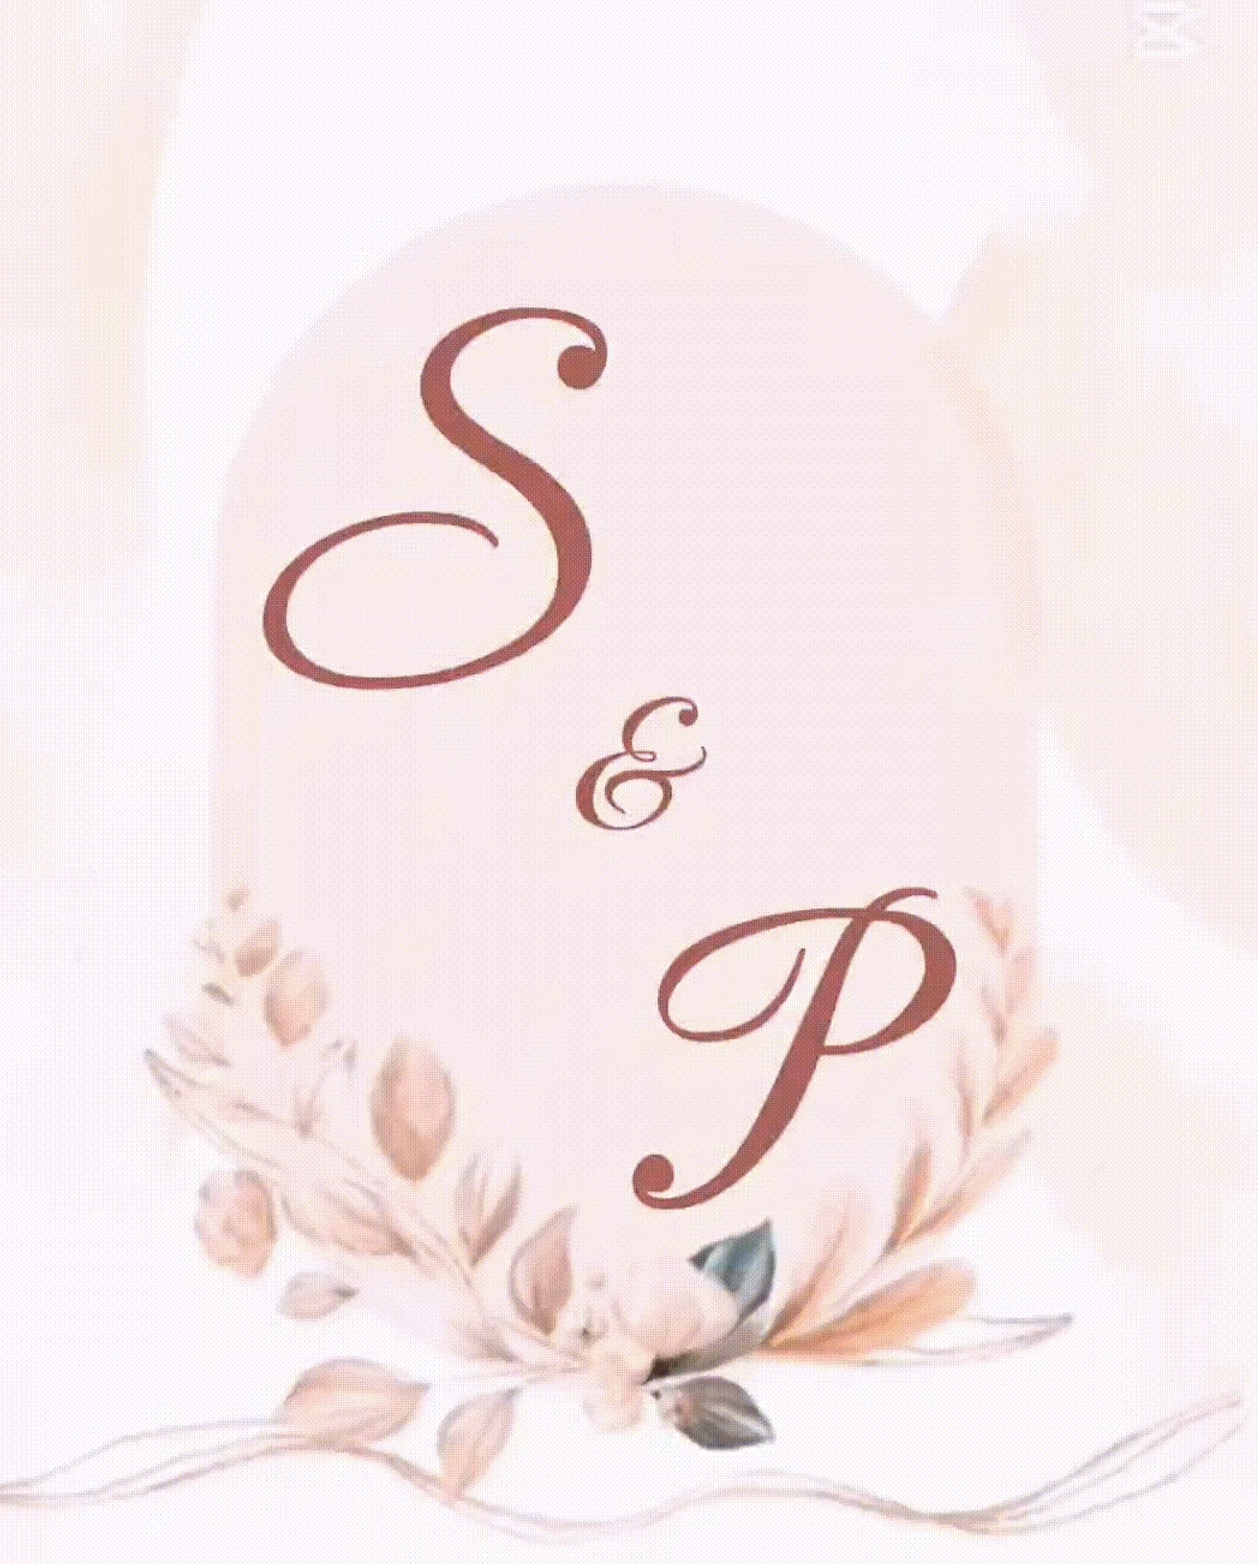
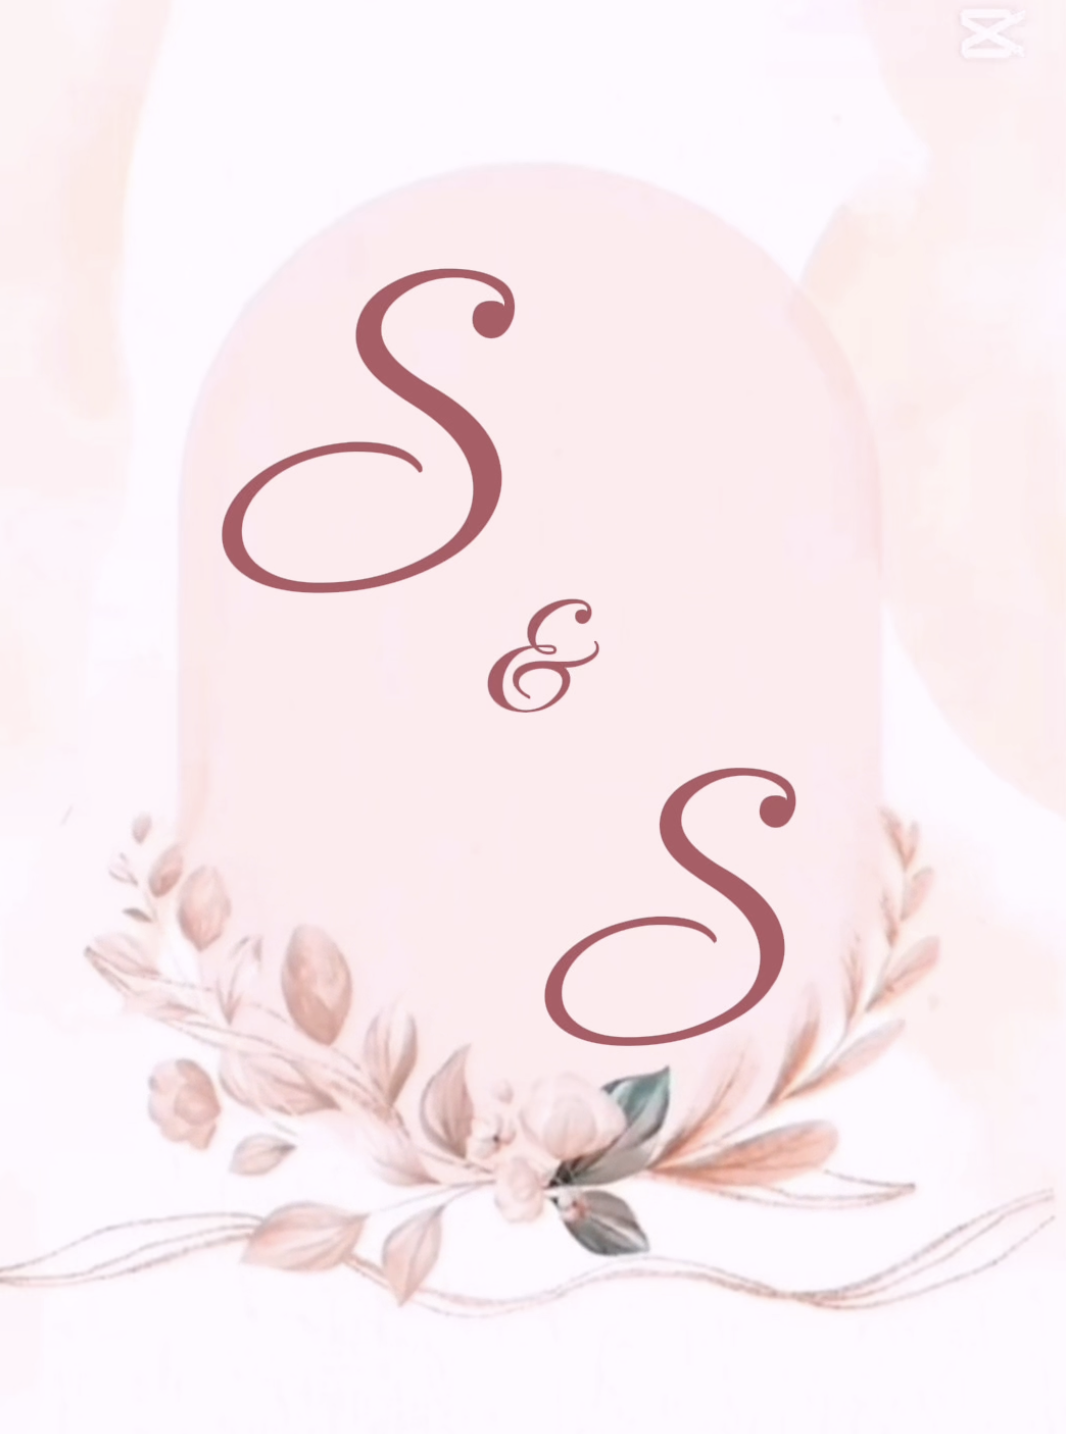
update loading screen

diff --git a/src/App.tsx b/src/App.tsx
@@ -2,6 +2,7 @@ import React, { useState } from "react"
 import "./App.scss"
 import { BGEffect } from "./component/bgEffect"
 import weddingCover from "./image/wedding_cover.png"
+import weddingCoverTwo from "./image/wedding_cover_two.jpeg"
 import { Cover } from "./component/cover"
 import { Invitation } from "./component/invitation"
 import { Calendar } from "./component/calendar"
@@ -12,17 +13,20 @@ import { LazyDiv } from "./component/lazyDiv"
 const App: React.FC = () => {
   const [isLoaded, setIsLoaded] = useState(false)
   const [isOpening, setIsOpening] = useState(false)
-  const [isFading, setIsFading] = useState(false)
+  const [showSecondImage, setShowSecondImage] = useState(false)
 
   const handleOpenClick = () => {
     setIsOpening(true)
-    // Trigger the fade-in animation
+
+    // Start the envelope opening animation
     setTimeout(() => {
-      setIsFading(true)
+      // Switch to second image
+      setShowSecondImage(true)
+      // Load main content after showing second image
       setTimeout(() => {
         setIsLoaded(true)
-      }, 1000) // Match the duration of the fade-in animation
-    }, 2000) // Wait for the envelope animation to complete
+      }, 2000) // Show second image for 2 seconds
+    }, 2000) // Wait for envelope animation
   }
 
   return (
@@ -34,9 +38,9 @@ const App: React.FC = () => {
             <div className="envelope-flap" />
             <div className="envelope-content">
               <img
-                src={weddingCover}
+                src={showSecondImage ? weddingCoverTwo : weddingCover}
                 alt="Wedding Invitation"
-                className={`invitation-image ${isFading ? "fade-in" : ""}`}
+                className={`invitation-image ${showSecondImage ? "second-image" : ""}`}
               />
             </div>
           </div>
@@ -56,12 +60,10 @@ const App: React.FC = () => {
             <Cover />
             <Invitation />
           </LazyDiv>
-
           <LazyDiv className="card-group">
             <Calendar />
             <Gallery />
           </LazyDiv>
-
           <LazyDiv className="card-group">
             <Location />
           </LazyDiv>

diff --git a/src/App.scss b/src/App.scss
@@ -258,7 +258,6 @@ div.break {
     .envelope-flap {
       transform: rotateX(180deg);
     }
-
     .envelope-content {
       transform: translateZ(50px);
     }
@@ -271,25 +270,16 @@ div.break {
   display: block;
   border-radius: 12px;
   box-shadow: 0 4px 20px rgba(0, 0, 0, 0.15);
-  opacity: 1; // Start fully transparent
-  transform: scale(0.8); // Start slightly smaller
-  transition: all 1s ease-in-out;
 
-  &.fade-in {
-    opacity: 1; // Fully visible
-    transform: scale(1); // Back to original size
-    animation: fadeInFromCenter 1s ease-in-out;
+  &.second-image {
+    animation: fadeInSecondImage 2s ease-in-out;
   }
 }
 
-@keyframes fadeInFromCenter {
+@keyframes fadeInSecondImage {
   0% {
     opacity: 0;
-    transform: scale(0.8);
-  }
-  50% {
-    opacity: 0.5;
-    transform: scale(1.05);
+    transform: scale(0.95);
   }
   100% {
     opacity: 1;
@@ -345,7 +335,6 @@ div.break {
   .envelope {
     width: min(70%, 600px);
   }
-
   .card-view {
     padding: 40px;
   }
@@ -356,7 +345,6 @@ div.break {
   .envelope {
     width: 95%;
   }
-
   .loading-screen {
     padding: 10px;
   }
